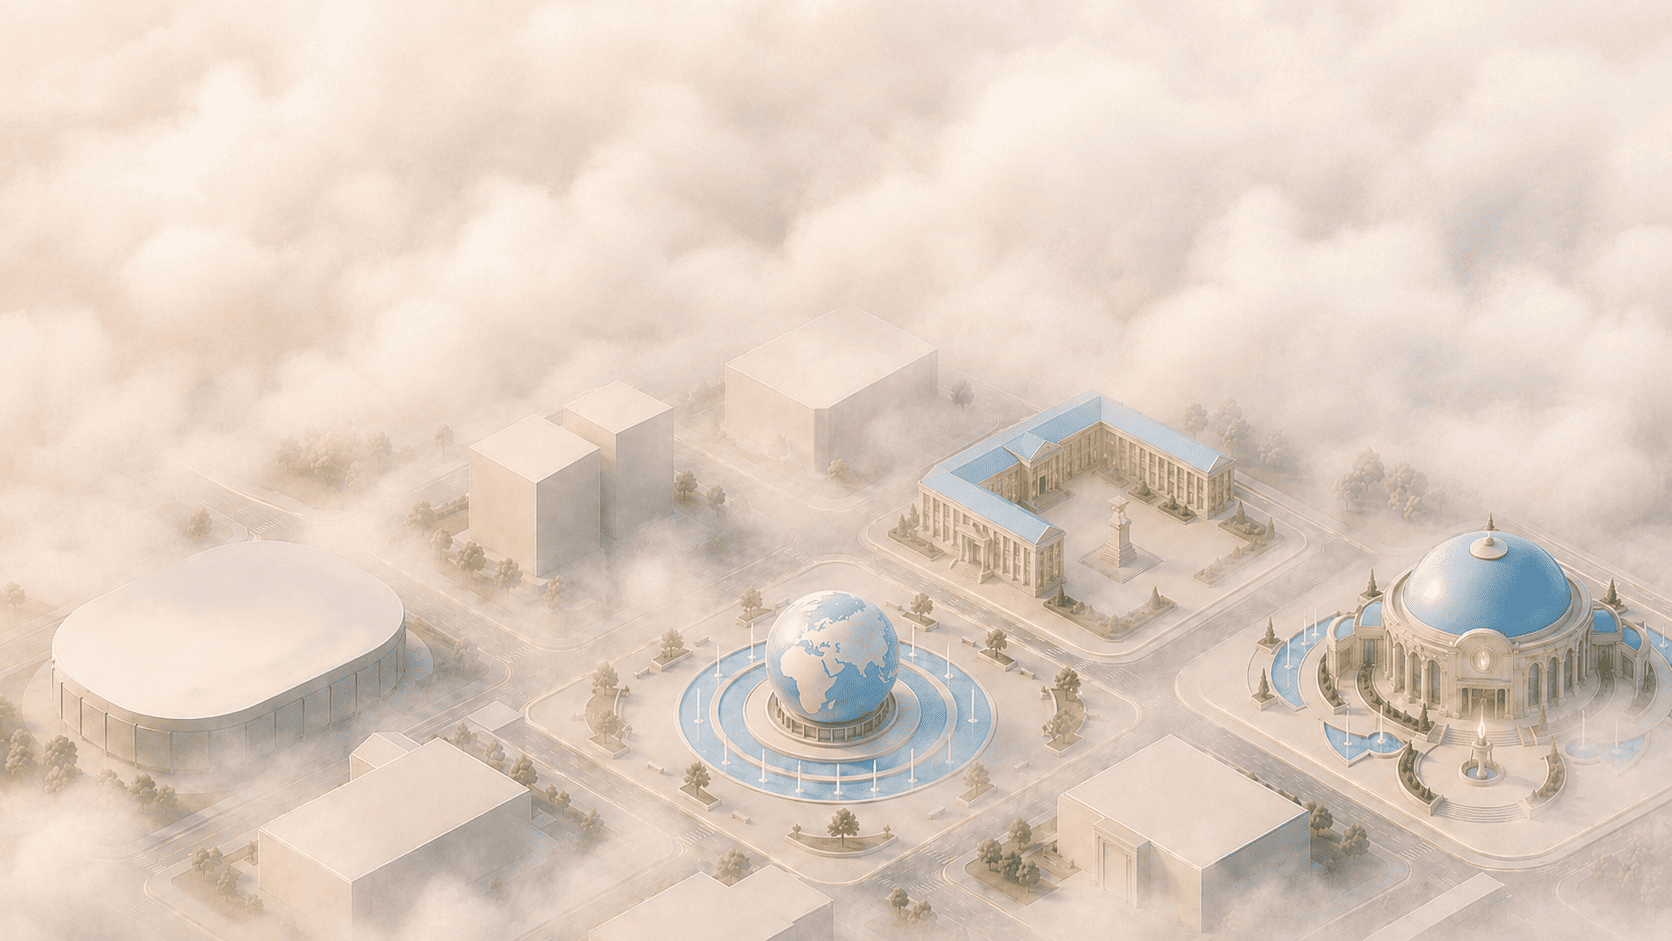
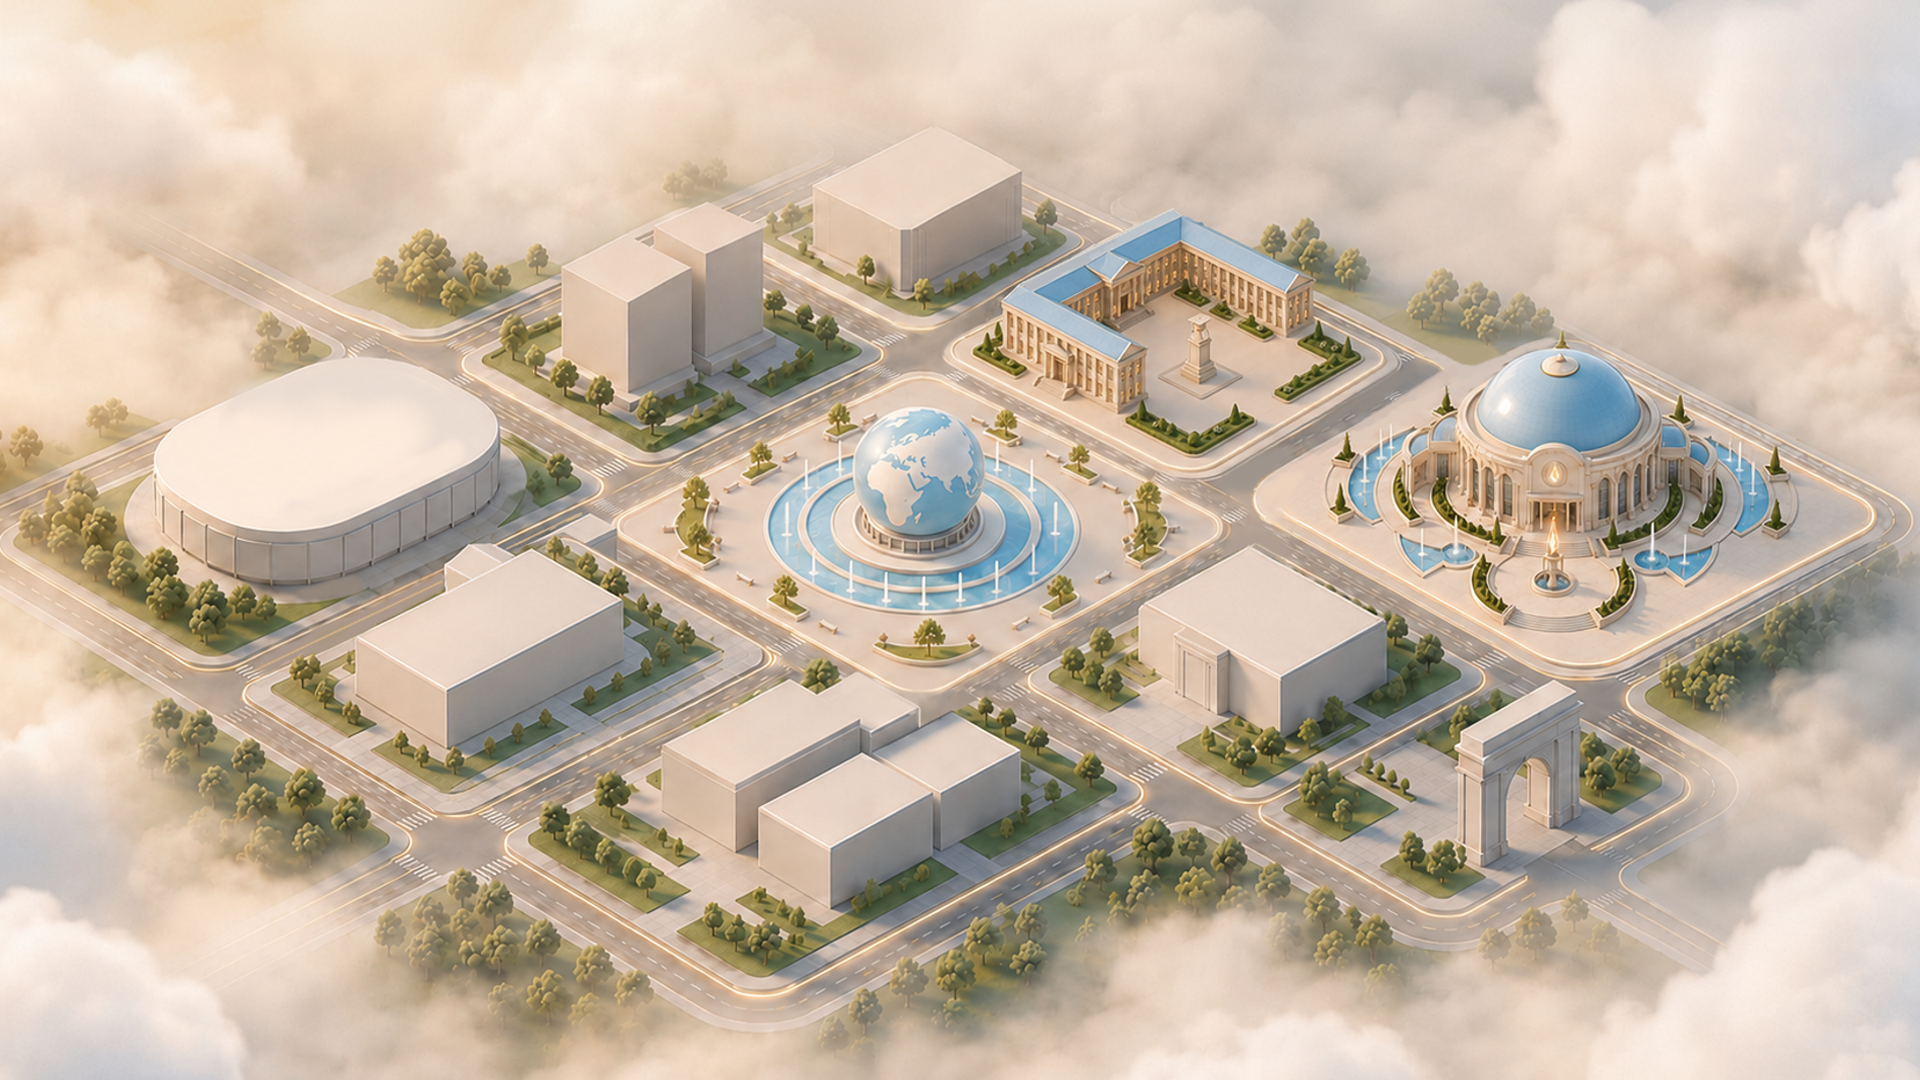
+

diff --git a/src/components/Map/Map.tsx b/src/components/Map/Map.tsx
@@ -1,0 +1,12 @@
+import { observer } from "mobx-react-lite";
+import map from "@/assets/images/map.png";
+
+const Map = observer(function Map() {
+  return (
+    <div>
+      <img src={map} alt="Карты" />
+    </div>
+  );
+});
+
+export default Map;

diff --git a/src/components/Schoolboy/Schoolboy.tsx b/src/components/Schoolboy/Schoolboy.tsx
@@ -1,7 +1,12 @@
 import { observer } from "mobx-react-lite";
+import Map from "../Map/Map";
 
 const Schoolboy = observer(function Schoolboy() {
-  return <div>Schoolboy</div>;
+  return (
+    <div>
+      <Map />
+    </div>
+  );
 });
 
 export default Schoolboy;

diff --git a/src/stores/rootStore.ts b/src/stores/rootStore.ts
@@ -1,8 +1,10 @@
 import { makeAutoObservable } from "mobx";
 
 class RootStore {
-  role: string | null = null;
-  isIntroFinished = false;
+  // role: string | null = null;
+  // isIntroFinished = false;
+  role: string | null = "schoolboy";
+  isIntroFinished = true;
 
   constructor() {
     makeAutoObservable(this);

diff --git a/src/components/index.ts b/src/components/index.ts
@@ -1,4 +1,5 @@
 import Intro from "./Intro/Intro";
 import Schoolboy from "./Schoolboy/Schoolboy";
+import Map from "./Map/Map";
 
-export { Intro, Schoolboy };
+export { Intro, Schoolboy, Map };

diff --git a/src/components/Intro/Intro.tsx b/src/components/Intro/Intro.tsx
@@ -56,7 +56,7 @@ const Intro = observer(function Intro() {
   }, [step]);
 
   return (
-    <div className="h-full min-h-screen bg-[url('assets/images/map.png')] bg-cover bg-center">
+    <div className="h-full min-h-screen bg-[url('assets/images/introMap.png')] bg-cover bg-center">
       {step === 1 && (
         <div className="max-w-277.5 mx-auto text-center pt-22.5 pb-31">
           <h1 className="font-semibold text-[120px] leading-33 text-[#0f0f33] mb-3">